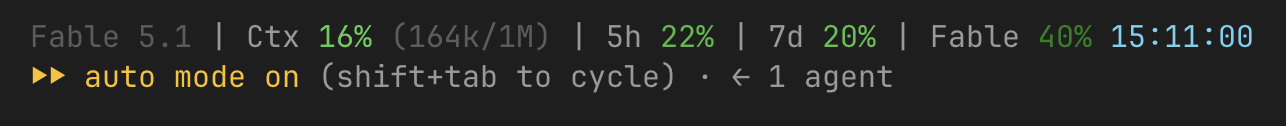
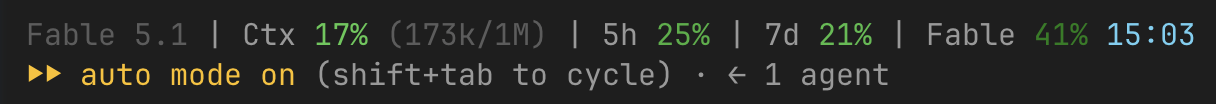
docs: update screenshot with the minute countdown

Changed region(s): [[0.0, 0.1731, 1.0, 0.4615], [0.0, 0.4904, 0.75, 0.8654]]

diff --git a/README.md b/README.md
@@ -2,7 +2,7 @@
 
 A one line Claude Code statusline, built for macOS with a Python port for Linux and Windows. It shows the model, context usage as a percentage and as tokens over the window size, the 5 hour and 7 day rate limits, and the Fable weekly limit. The weekly reset day sits after Fable, and once it is under 24 hours away it turns into an HH:MM countdown.
 
-![statusline showing Fable 5.1, Ctx 16% (164k/1M), 5h 22%, 7d 20%, Fable 40% 15:11:00](statusline.png)
+![statusline showing Fable 5.1, Ctx 17% (173k/1M), 5h 25%, 7d 21%, Fable 41% 15:03](statusline.png)
 
 Every percentage fades from bright to dark inside its band so you can see where you are without reading the number.
 
